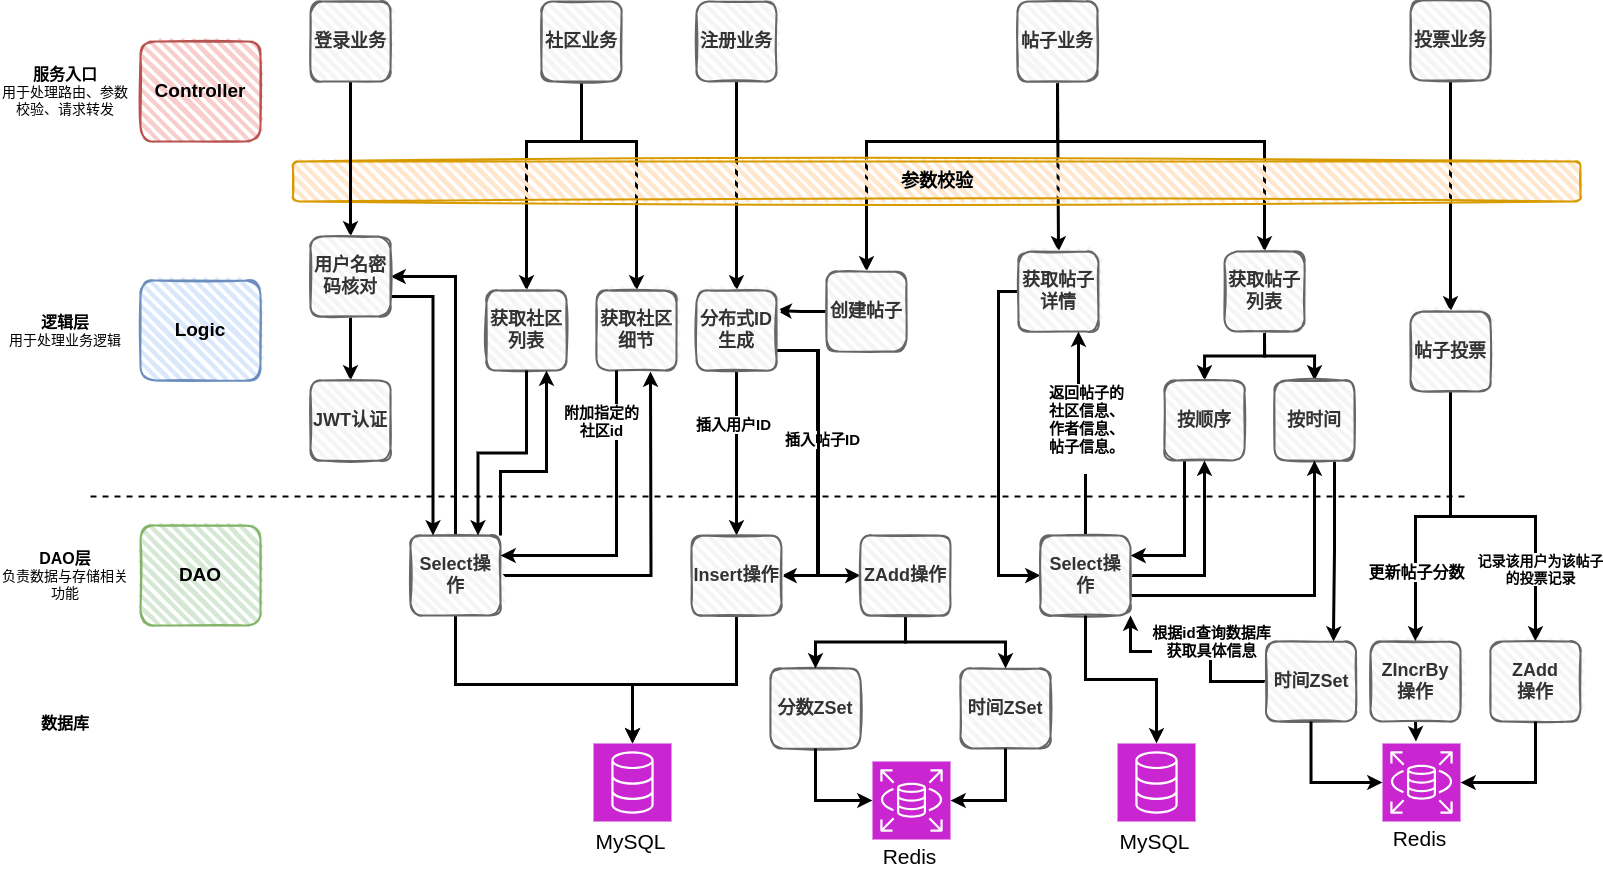
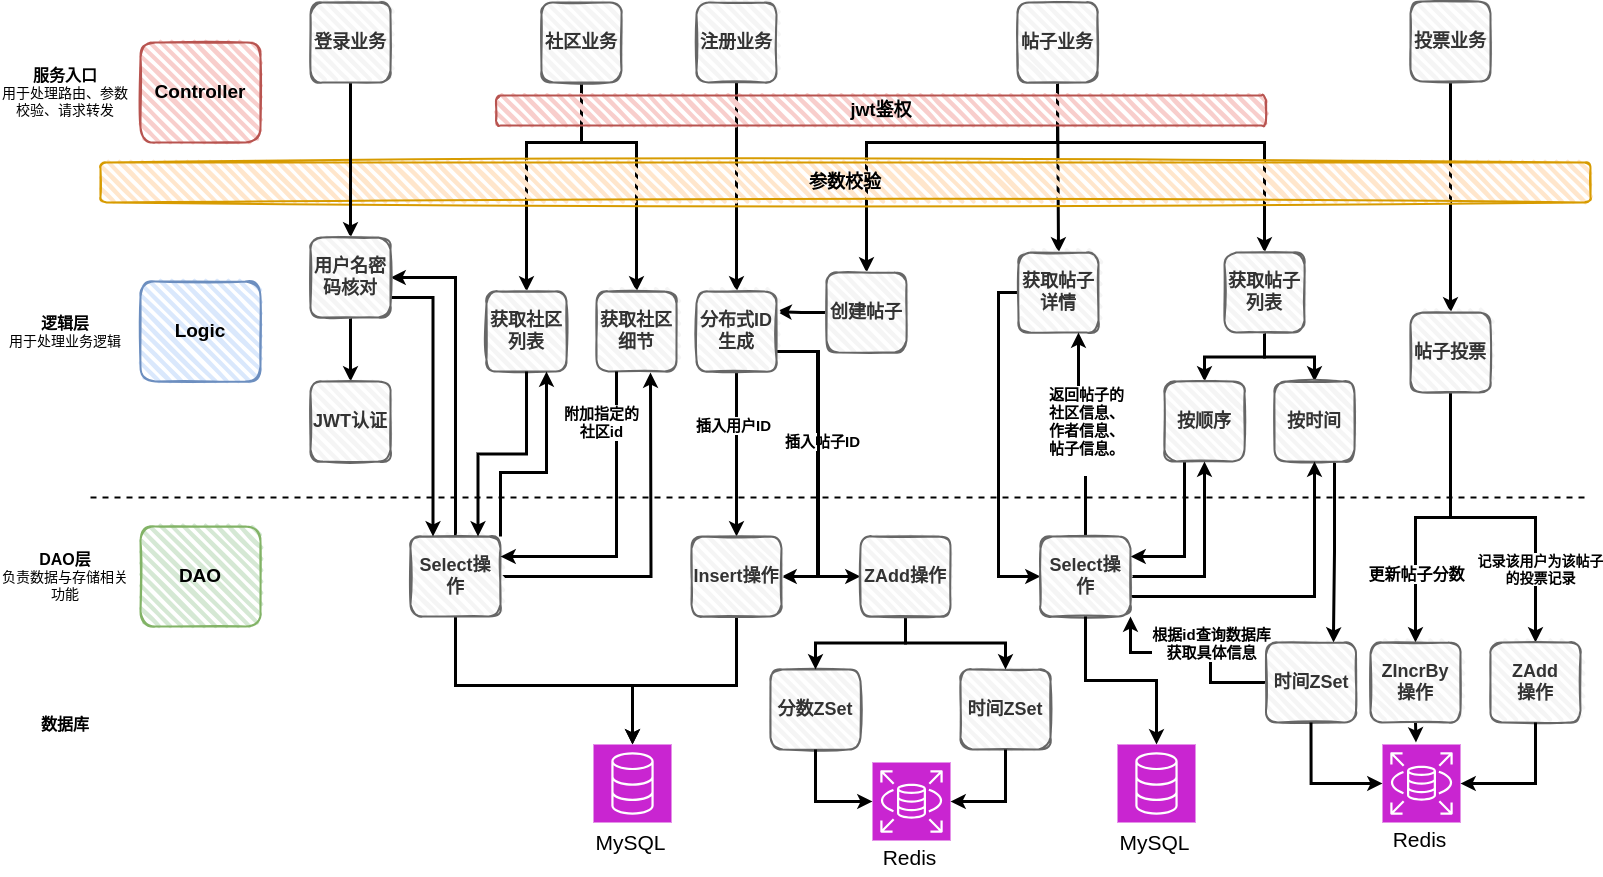
add readme about part 1 2

diff --git a/pkg/jwt/jwt.go b/pkg/jwt/jwt.go
@@ -6,10 +6,19 @@ import (
 	"time"
 )
 
+// Token过期时间
+
 const TokenExpireDuration = time.Hour * 2
+
+//设置秘钥
 
 var MySecret = []byte("开发")
 var KeyFunc jwt.Keyfunc = func(token *jwt.Token) (i interface{}, err error) { return MySecret, nil }
+
+// 自定义声明结构体并且内嵌jwt.StandardClaims
+// jwt.StandardClaims内部只包含官方字段
+// 由于我们要额外添加字段，所以创建了一个新的结构体
+// 在新的结构体里面我们加上了用户ID和用户名
 
 type MyClaims struct {
 	UserID   int64  `json:"user_id"`
@@ -19,21 +28,23 @@ type MyClaims struct {
 
 func GenToken(userID int64) (aToken, rToken string, err error) {
 	c := MyClaims{
-		userID,
-		"username",
+		userID,     //自定义字段，用户ID
+		"username", //自定义字段，用户名
 		jwt.StandardClaims{
 
 			//(time.Duration(viper.GetInt("auth.jwt_expire")) * time.Hour)
 
-			ExpiresAt: time.Now().Add(TokenExpireDuration).Unix(),
-			Issuer:    "bluebell",
+			ExpiresAt: time.Now().Add(TokenExpireDuration).Unix(), //官方设定字段，过期时间
+			Issuer:    "bluebell",                                 //官方设定字段，签发人
 		},
 	}
+	// 使用指定加密方式HS256生成签名Token
 	Token := jwt.NewWithClaims(jwt.SigningMethodHS256, c)
+	// 使用MySecret加密并获得accessToken
 	aToken, err = Token.SignedString(MySecret)
-
+	// 获得一个refreshToken
 	rToken, err = jwt.NewWithClaims(jwt.SigningMethodHS256, jwt.StandardClaims{
-		ExpiresAt: time.Now().Add(time.Second * 30).Unix(),
+		ExpiresAt: time.Now().Add(time.Hour * 24 * 30).Unix(),
 		Issuer:    "bluebell",
 	}).SignedString(MySecret)
 	return
@@ -42,7 +53,7 @@ func GenToken(userID int64) (aToken, rToken string, err error) {
 func ParseToken(tokenString string) (claims *MyClaims, err error) {
 	var token *jwt.Token
 	claims = new(MyClaims)
-
+	// 解析Token
 	token, err = jwt.ParseWithClaims(tokenString, claims, KeyFunc)
 	if err != nil {
 		return nil, err

diff --git a/logic/user.go b/logic/user.go
@@ -27,7 +27,6 @@ func SignUp(p *models.ParamSignUp) (err error) {
 	return mysql.InsertUser(&U)
 }
 
-
 func Login(p *models.ParamLogin) (user *models.User, err error) {
 	user = &models.User{
 

diff --git a/README.md b/README.md
@@ -8,11 +8,41 @@
 &emsp;&emsp;本项目采用CLD分层结构实现了博客论坛后端系统的五个业务：注册业务、登录业务、社区业务、帖子业务、投票业务。
 
 ## 注册业务
+<div align="center"> <img src="./images/2.png"/> </div>
+
+* 1、首先客户端向服务端发送一个POST请求，POST请求中带有用户名和密码，并进行参数校验
+* 2、然后通过用户名判断用户是否已经存在，若已存在则返回用户已存在错误
+* 3、如果没问题的话则通过snowFlake库生成分布式ID，通过md5库对密码进行加密，然后将用户名、加密后的密码、分布式ID组成**用户记录**
+* 4、将用户记录插入数据库
+
 
 ## 登录业务
+<div align="center"> <img src="./images/3.png"/> </div>
+
+* 1、客户端向服务端发送POST请求，请求中带有用户名和密码，并进行参数校验
+* 2、通过查询数据库，判断数据库中是否存在用户且用户名和密码是否匹配
+* 3、若查询到且匹配，则进行jwt的Token生成，否则，返回错误
+* 4、将生成的Token返回给客户端，用于后续的鉴权
+
+### 鉴权
+在生成了AccessToken和RefreshToken并发送给客户端之后，现在客户端访问路由时需要带上Token来完成服务端的认证。
+
+整个会话的流程如下：
+* 客户端访问需要认证的接口时，携带AccessToken
+* 如果AccessToken没有过期，则服务端鉴权后返回给客户端需要的数据
+* 如果AccessToken过期，则客户端使用RefreshToken向服务端的刷新接口申请新的AccessToken
+* 如果RefreshToken没有过期，则下发新的AccessToken
+* 如果RefreshToken过期，则需要用户重新登录来获取新的AccessToken和RefreshToken
+
 
 ## 社区业务
 
+
+
 ## 帖子业务
 
+
+
 ## 投票业务
+
+
